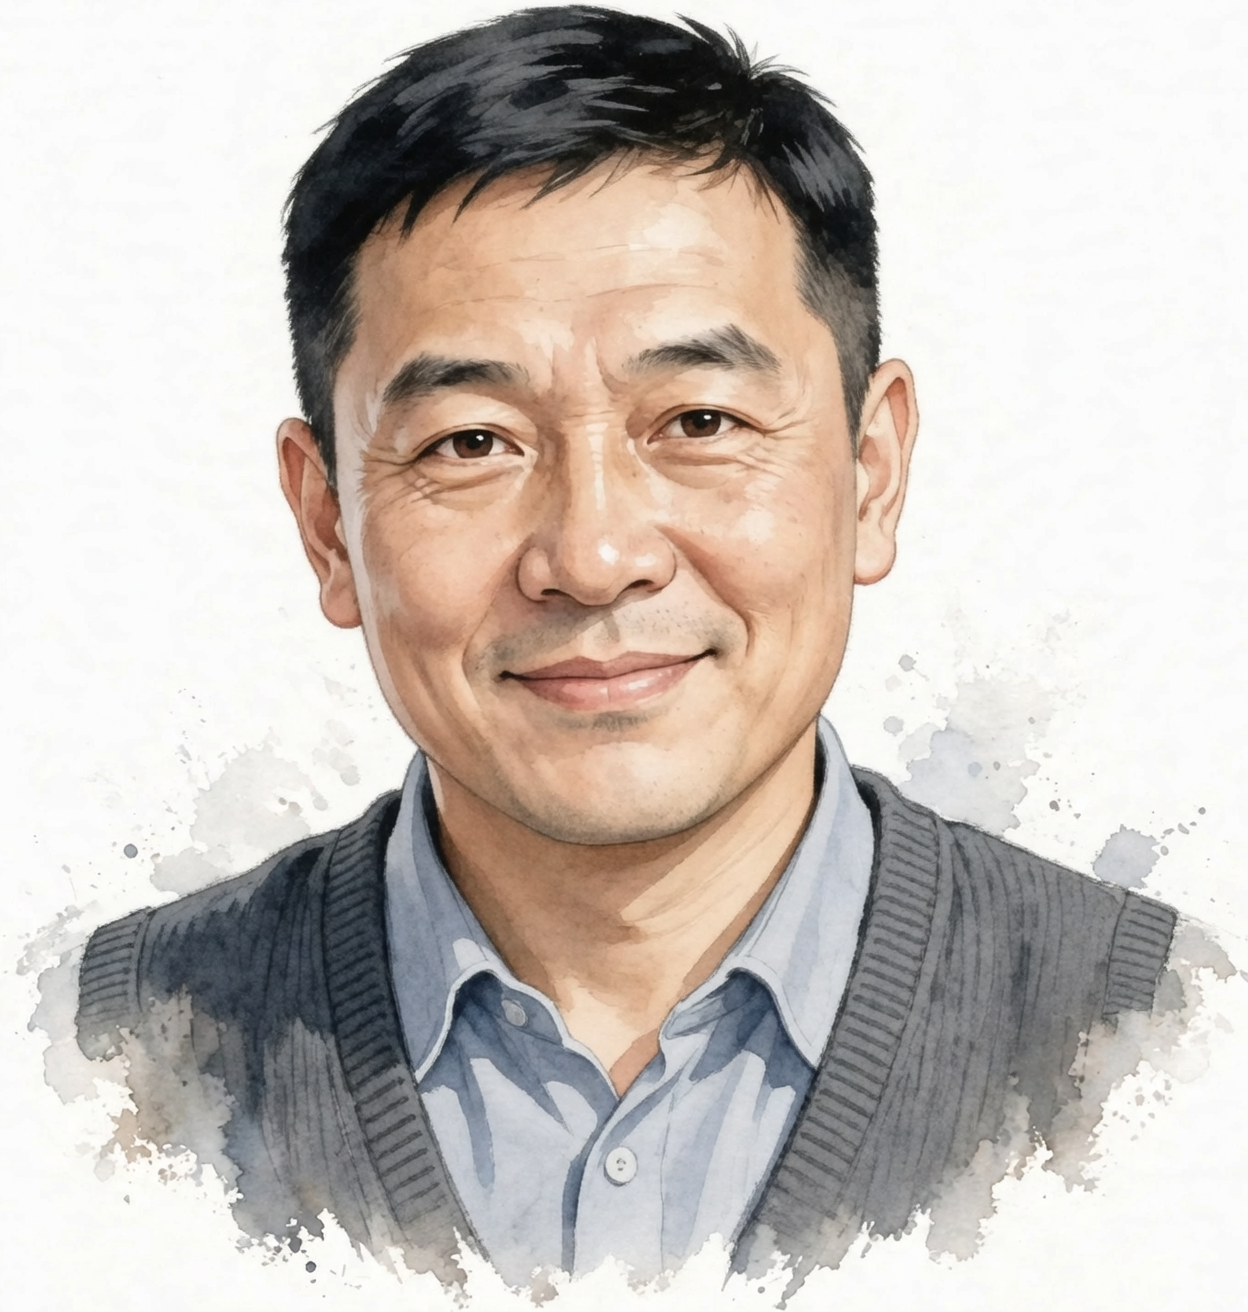
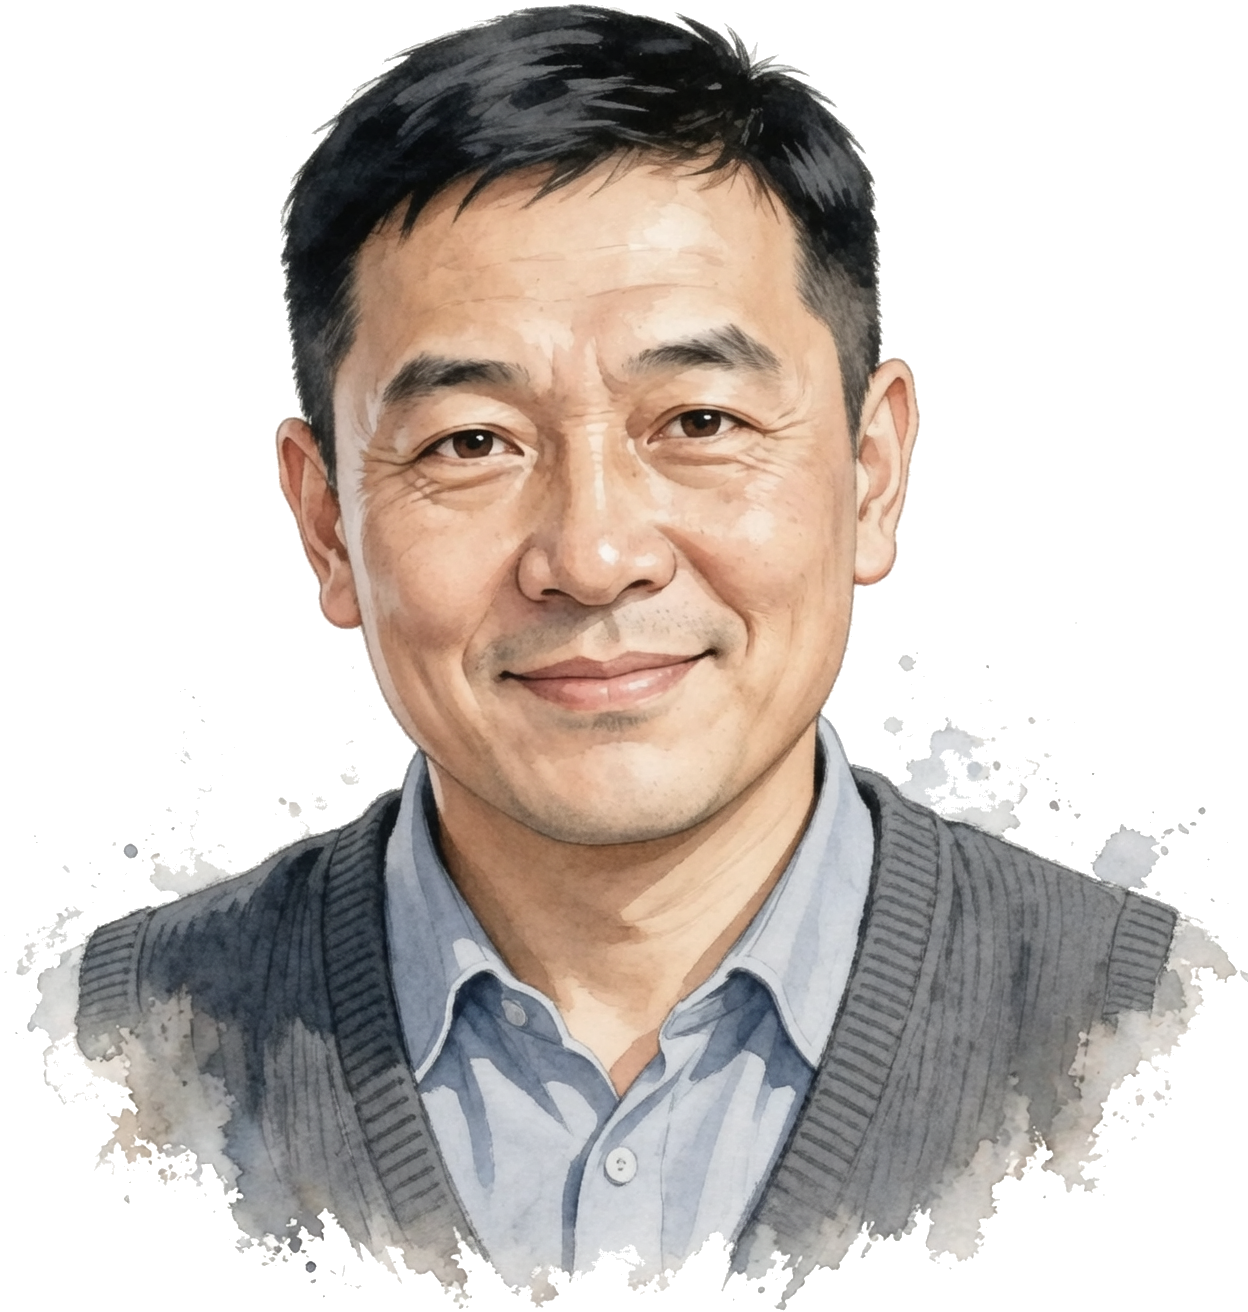
Final battle: the young four as cut-outs, not photographs (parallel session)
Author 2026-11-17: 「别用相片啊，抠图，否则真的遗照了」. No frame, no sepia,
no tilt: the young 立绘 stands cut out at the left of the box, rising
above its edge, with a soft shadow; the buff cards' faces are plain
round cut-outs. laozhou_young.png loses its white paper background
(alpha like the other three; the figure untouched).

diff --git a/src/world/room/room.css b/src/world/room/room.css
@@ -1011,20 +1011,18 @@
 .boss-page .bs-buff img{width:22px;height:22px;border-radius:50%;object-fit:cover}
 .boss-page .bs-buff b{font-weight:700}
 .boss-page .bs-buff small{opacity:.75}
-/* 对不起 (2026-11-17, look only): before the fight each of the four is a photograph from years ago, held up beside
-   one line; in the fight the four are four small cards in the top right corner, all with the same word on them.
-   Nothing here says what the word means. */
-.boss-page .bs-box.portrait{display:flex;align-items:center;gap:30px;min-height:210px;padding:22px 40px 22px 30px}
-.boss-page .bs-box.portrait p{font-size:24px;line-height:1.7;letter-spacing:.04em}
-.boss-page .bs-portrait{width:150px;height:186px;border-radius:1px;object-position:50% 12%;background:#f4f1e8;border:7px solid #f4f1e8;border-bottom-width:22px;box-shadow:0 1px 0 rgba(255,255,255,.5) inset,0 14px 30px rgba(0,0,0,.75);filter:sepia(.22) saturate(.85) contrast(.96);transform:rotate(-2.4deg);animation:bs-photo 520ms cubic-bezier(.2,.8,.2,1) both}
-.boss-page .bs-portrait[data-who="partner"],.boss-page .bs-portrait[data-who="laozhou"]{transform:rotate(1.8deg)}
+/* 对不起 (2026-11-17, look only): before the fight each of the four stands beside one line as they were then — a cut-out
+   figure like every other speaker in the game, never a framed photograph (author: 别用相片啊，抠图，否则真的遗照了).
+   In the fight the four are four small cards in the top right corner, all with the same word on them. */
+.boss-page .bs-box.portrait{display:flex;align-items:flex-end;gap:26px;min-height:150px;padding:22px 40px 22px 30px;overflow:visible}
+.boss-page .bs-box.portrait p{align-self:center;font-size:24px;line-height:1.7;letter-spacing:.04em}
+.boss-page .bs-portrait{width:210px;height:236px;margin:-110px 0 -22px;border:0;border-radius:0;background:none;box-shadow:none;object-fit:contain;object-position:50% 100%;filter:drop-shadow(0 10px 18px rgba(0,0,0,.7));transform:none;animation:bs-photo 520ms cubic-bezier(.2,.8,.2,1) both}
 @keyframes bs-photo{0%{opacity:0;translate:0 14px}100%{opacity:1;translate:0 0}}
-.boss-page[data-phase="after"] .bs-portrait,.boss-page.after .bs-portrait{filter:none;border-color:#e9e6dc;background:#e9e6dc}
 .boss-page .bs-buffs{left:auto;right:26px;top:18px;gap:6px}
 .boss-page .bs-buff{flex-direction:column;align-items:center;gap:3px;width:74px;padding:6px 4px 7px;border-radius:2px;border:1px solid rgba(239,233,223,.22);background:linear-gradient(180deg,rgba(18,20,26,.86),rgba(5,6,10,.82));box-shadow:0 6px 14px rgba(0,0,0,.5);font-size:11px;animation:bs-buff-in 600ms cubic-bezier(.2,.8,.2,1) both}
 .boss-page .bs-buff:nth-child(2){animation-delay:140ms}.boss-page .bs-buff:nth-child(3){animation-delay:280ms}.boss-page .bs-buff:nth-child(4){animation-delay:420ms}
 @keyframes bs-buff-in{0%{opacity:0;transform:translateY(-8px)}100%{opacity:1;transform:none}}
-.boss-page .bs-buff img{width:38px;height:38px;border-radius:1px;object-position:top;border:2px solid #f4f1e8;filter:sepia(.25) saturate(.8)}
+.boss-page .bs-buff img{width:40px;height:40px;border-radius:50%;object-position:top;border:0;background:#1d2129}
 .boss-page .bs-buff b{font:700 13px/1.2 "Songti SC","STSong","Noto Serif CJK SC",serif;letter-spacing:.18em;text-indent:.18em;color:#efe9df}
 .boss-page .bs-buff small{font-size:10px;letter-spacing:.06em;color:#a49d8f;opacity:1}
 @media (prefers-reduced-motion:reduce){.boss-page .bs-portrait,.boss-page .bs-buff{animation:none}}
